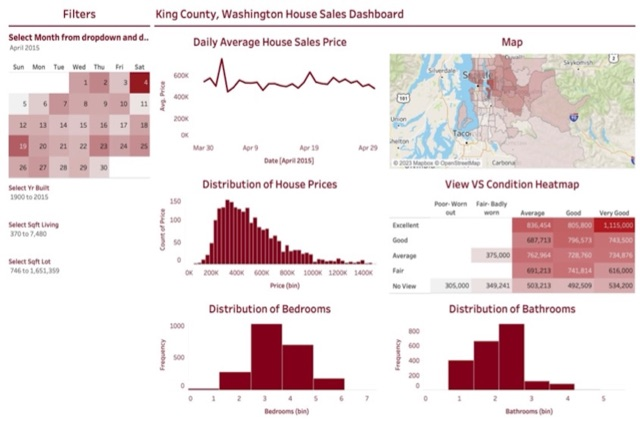
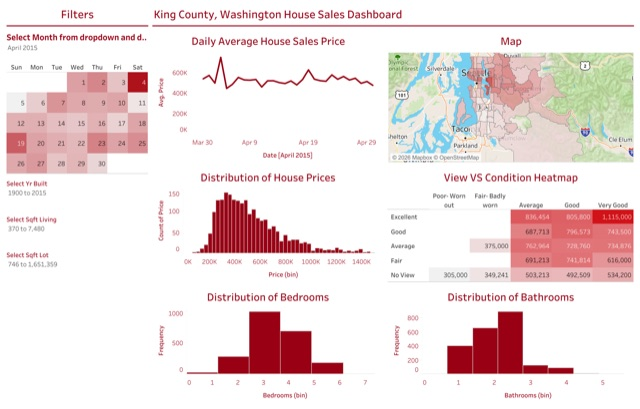
House Sale: use new png in popup, refresh thumbnail, drop old jpg

diff --git a/index.html b/index.html
@@ -275,7 +275,7 @@
 
          <div id="modal-03" class="popup-modal mfp-hide">
 
-		      <img class="scale-with-grid" src="images/portfolio/modals/house_sale_dashboard.jpg" alt="" />
+		      <img class="scale-with-grid" src="images/portfolio/modals/house_sale_dashboard.png" alt="" />
 
 		      <div class="description-box">
 			      <h4>Kings County, Washington House Sales Dashboard</h4>
